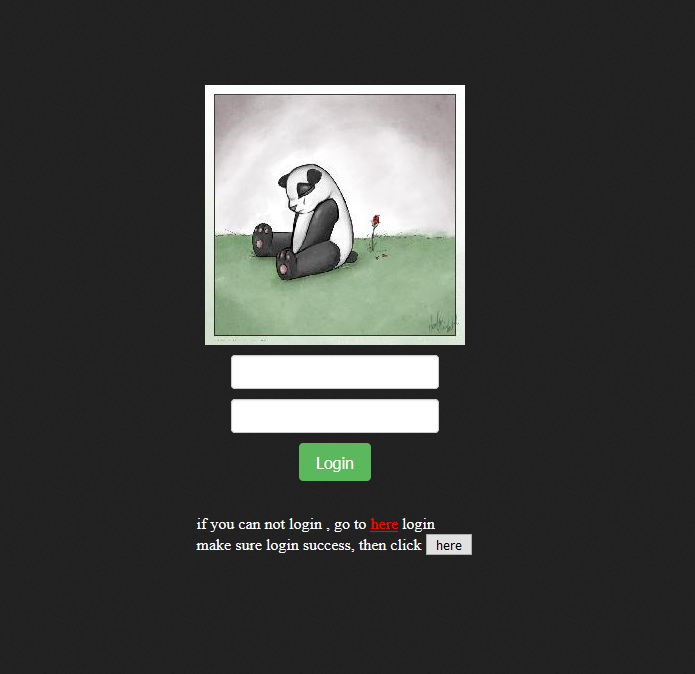
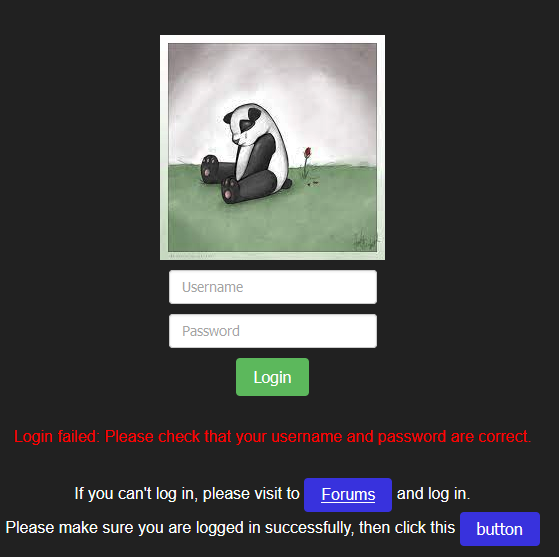
Update README.md

Changed region(s): [[0.2737, 0.061, 0.6995, 0.7325], [0.0, 0.8546, 0.9732, 1.0], [0.0304, 0.763, 0.9428, 0.8241]]

diff --git a/src/main.js b/src/main.js
@@ -2,7 +2,9 @@
 // @name         Let's panda!
 // @namespace    https://github.com/Sean2525/Let-s-panda
 // @author       sean2525, strong-Ting
-// @description  A login, view, download tool for exhentai
+// @description  A login, view, download tool for exhentai & e-hentai
+// @description:zh-tw 一個用於exhentai和e-hentai的登入、查看、下載的工具
+// @description:zh-cn 一个用于exhentai和e-hentai的登录、查看、下载的工具
 // @license      MIT
 // @require      https://code.jquery.com/jquery-3.2.1.slim.min.js
 // @include      https://exhentai.org/
@@ -21,7 +23,7 @@
 // @grant        GM.notification
 // @connect      *
 // @run-at       document-end
-// @version      0.2.7
+// @version      0.2.8
 // ==/UserScript==
 
 jQuery(function ($) {
@@ -50,12 +52,8 @@ jQuery(function ($) {
    */
   var debug = false;
 
-  /**
-   * Viewed
-   * @type {Boolean}
-   */
-  var viewed = false;
 
+  var viewed = false;
   const loginPage = () => {
     let div = document.createElement("div");
     div.className = "main";

diff --git a/README.md b/README.md
@@ -12,15 +12,43 @@ A Greasy Fork user script for exhentai
 
 ![1](https://raw.githubusercontent.com/Sean2525/Let-s-panda/master/images/1.png)
 
-#### Download & View
+#### Download & Viewer
 
 ![2](https://raw.githubusercontent.com/Sean2525/Let-s-panda/master/images/2.png)
 
-#### Some configuration
+#### Some script configurations
 
 ![3](https://raw.githubusercontent.com/Sean2525/Let-s-panda/master/images/3.png)
 
-### Install This Script
+### Usage
+#### Login
+* Input your exhentai account and password.
+* If you cannot log in, please follow the instructions.
+![1](https://raw.githubusercontent.com/Sean2525/Let-s-panda/master/images/1.png)
+
+#### Download
+* Just click "Download" text
+![7](https://raw.githubusercontent.com/Sean2525/Let-s-panda/master/images/7.png)
+
+#### Viewer
+1. First enable Viewer  
+![7](https://raw.githubusercontent.com/Sean2525/Let-s-panda/master/images/7.png)
+* `Viewer page(s): All`   
+    * Load images for all pages  
+    * e.g. Showing 1 - 20 of 41 images it will load 1 - 41 images in current page  
+* `Viewer page(s): All`   
+    * Load images for current page  
+    * e.g. Showing 1 - 20 of 41 images it will load 1 - 20 images in current page  
+
+2. Viewer mode
+* Single mode
+    * ![4](https://raw.githubusercontent.com/Sean2525/Let-s-panda/master/images/4.png)
+* Double mode
+    * ![5](https://raw.githubusercontent.com/Sean2525/Let-s-panda/master/images/5.png)
+* When you are in double mode, click the double mode button once more and it will reverse image like this.
+    * ![6](https://raw.githubusercontent.com/Sean2525/Let-s-panda/master/images/6.png)
+
+### Install the Script
 
 - [Download from GreasyFork](https://sleazyfork.org/zh-CN/scripts/33979-let-s-panda)
 
